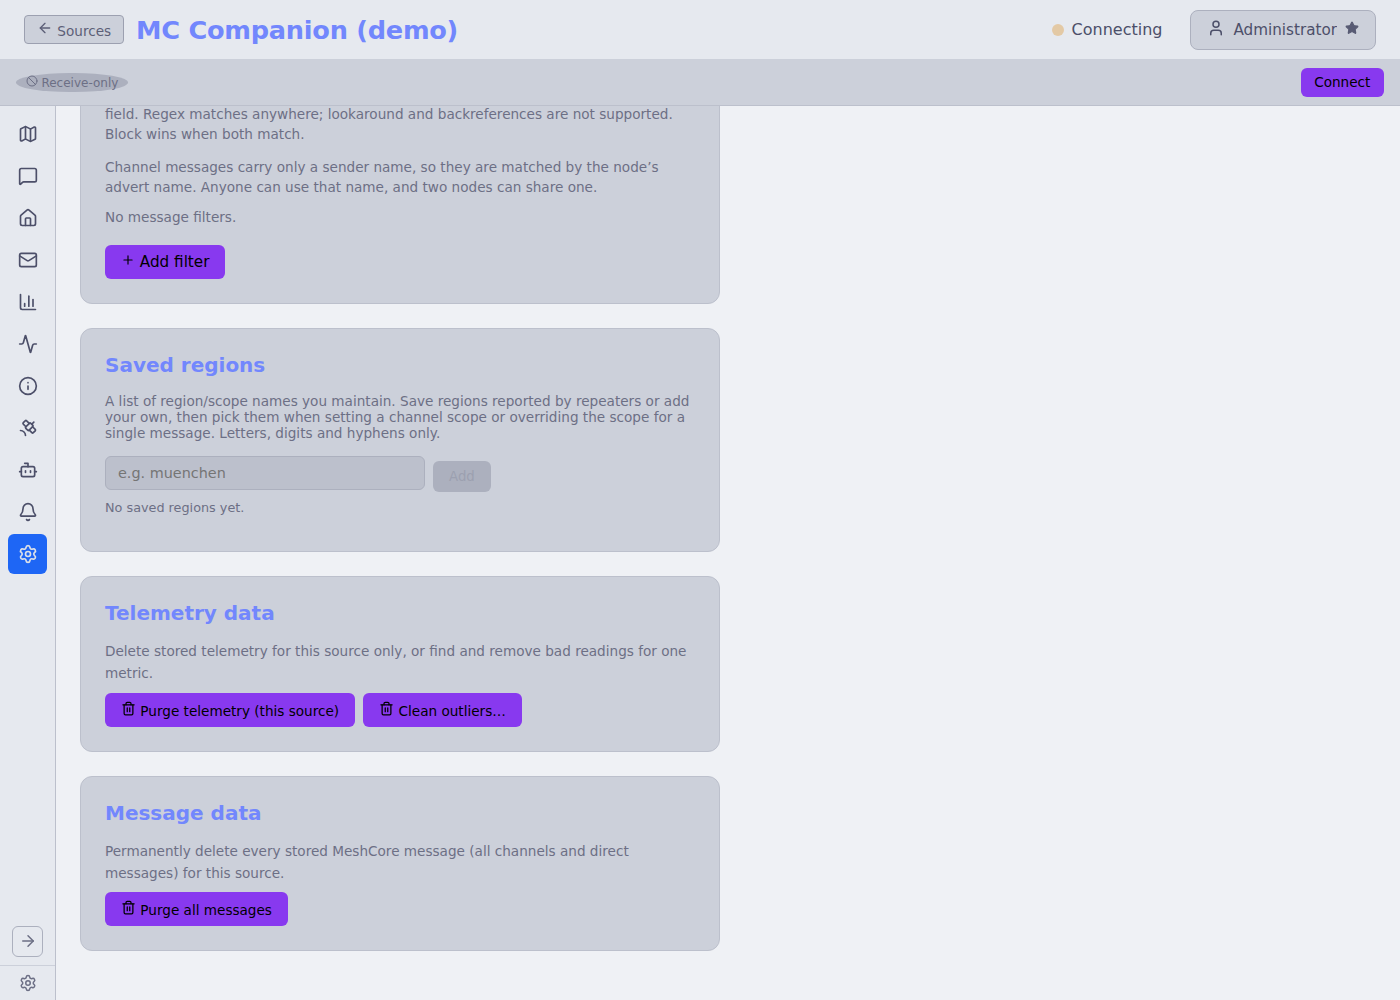
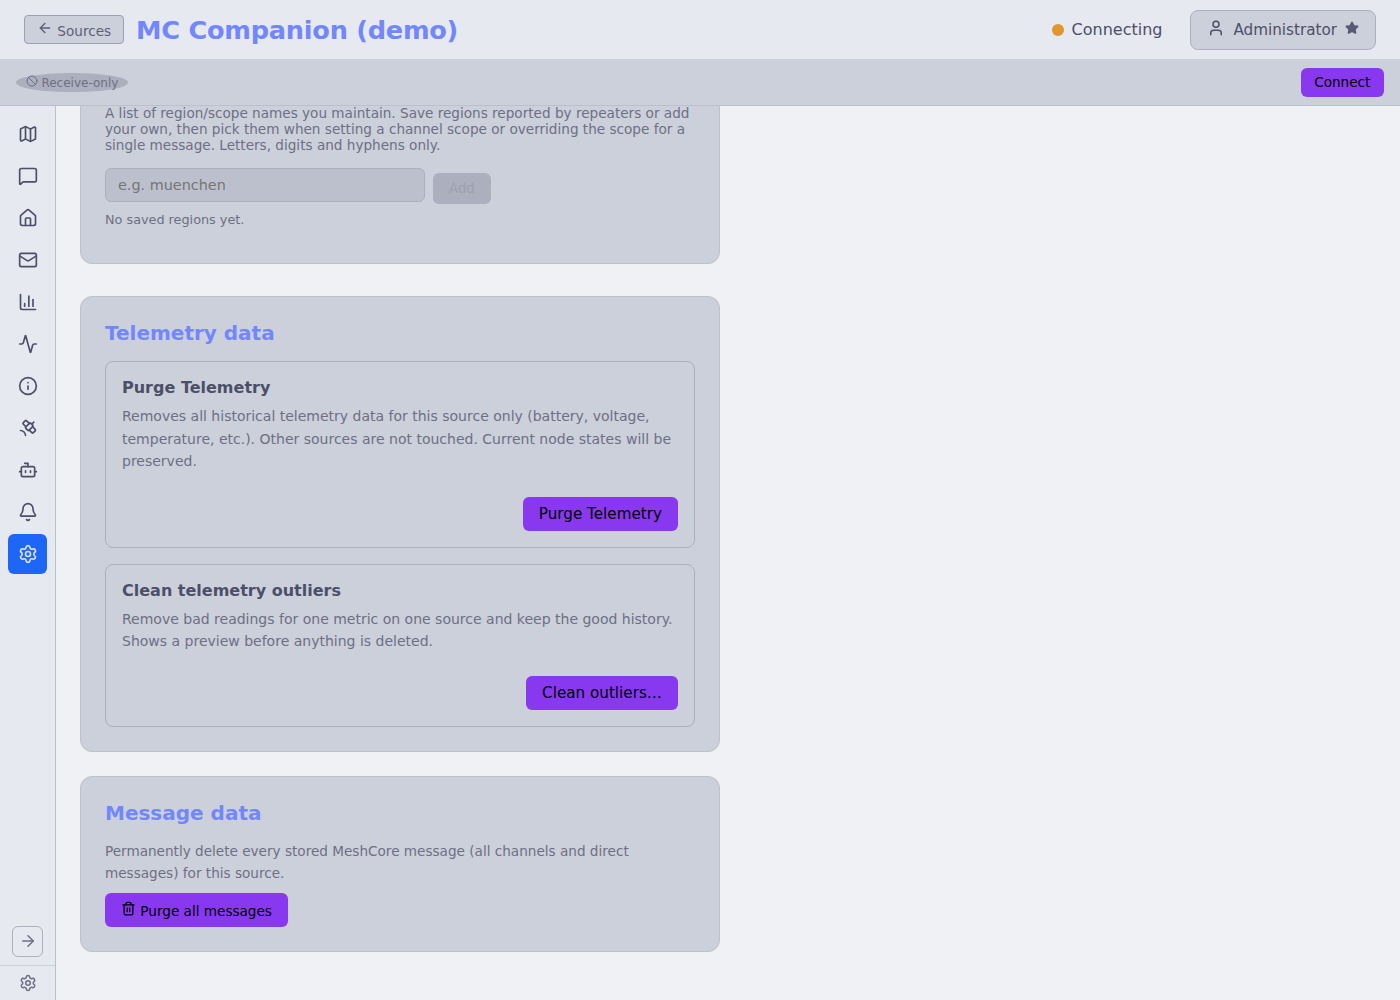
fix(settings): source-scoped card descriptions for Purge telemetry and Erase nodes (#6258)
On a source page both cards still said they remove ALL data, while the
action only touches that source. Use source wording when scoped.
Refresh the Telemetry data screenshot for the shared component.

Claude-Session: https://claude.ai/code/session_01UrobAQTeP4VgugVc9vccFG

Changed region(s): [[0.0307, 0.093, 0.5221, 0.744], [0.0921, 0.899, 0.215, 0.93]]

diff --git a/src/components/settings/TelemetryDataActions.test.tsx b/src/components/settings/TelemetryDataActions.test.tsx
@@ -43,6 +43,7 @@ describe('TelemetryDataActions', () => {
   it('purges one source with the source-scoped confirm copy', async () => {
     const confirmSpy = vi.spyOn(window, 'confirm').mockReturnValue(true);
     render(<TelemetryDataActions sourceId="src-1" sources={sources} />);
+    expect(screen.getByText('settings.purge_telemetry_description_source')).toBeTruthy();
     fireEvent.click(screen.getByText('settings.purge_telemetry_button'));
     await waitFor(() => expect(apiService.purgeTelemetry).toHaveBeenCalledWith(0, 'src-1'));
     const text = String(confirmSpy.mock.calls.at(-1)?.[0]);
@@ -54,6 +55,7 @@ describe('TelemetryDataActions', () => {
   it('purges all sources with the global copy when no source is set', async () => {
     const confirmSpy = vi.spyOn(window, 'confirm').mockReturnValue(true);
     render(<TelemetryDataActions sourceId={null} sources={sources} />);
+    expect(screen.getByText('settings.purge_telemetry_description')).toBeTruthy();
     fireEvent.click(screen.getByText('settings.purge_telemetry_button'));
     await waitFor(() => expect(apiService.purgeTelemetry).toHaveBeenCalledWith(0, undefined));
     const text = String(confirmSpy.mock.calls.at(-1)?.[0]);

diff --git a/src/components/settings/TelemetryDataActions.tsx b/src/components/settings/TelemetryDataActions.tsx
@@ -57,7 +57,7 @@ export const TelemetryDataActions: React.FC<TelemetryDataActionsProps> = ({ sour
       <div className="danger-action">
         <div className="danger-action-info">
           <h4>{t('settings.purge_telemetry_title')}</h4>
-          <p>{t('settings.purge_telemetry_description')}</p>
+          <p>{t(sourceId ? 'settings.purge_telemetry_description_source' : 'settings.purge_telemetry_description')}</p>
         </div>
         <button className="danger-button" onClick={handlePurgeTelemetry}>
           {t('settings.purge_telemetry_button')}

diff --git a/src/components/SettingsTab.tsx b/src/components/SettingsTab.tsx
@@ -3822,7 +3822,7 @@ const SettingsTab: React.FC<SettingsTabProps> = ({
           <div className="danger-action">
             <div className="danger-action-info">
               <h4>{t('settings.erase_nodes_title')}</h4>
-              <p>{t('settings.erase_nodes_description')}</p>
+              <p>{t(purgeSourceId ? 'settings.erase_nodes_description_source' : 'settings.erase_nodes_description')}</p>
             </div>
             <button
               className="danger-button"
